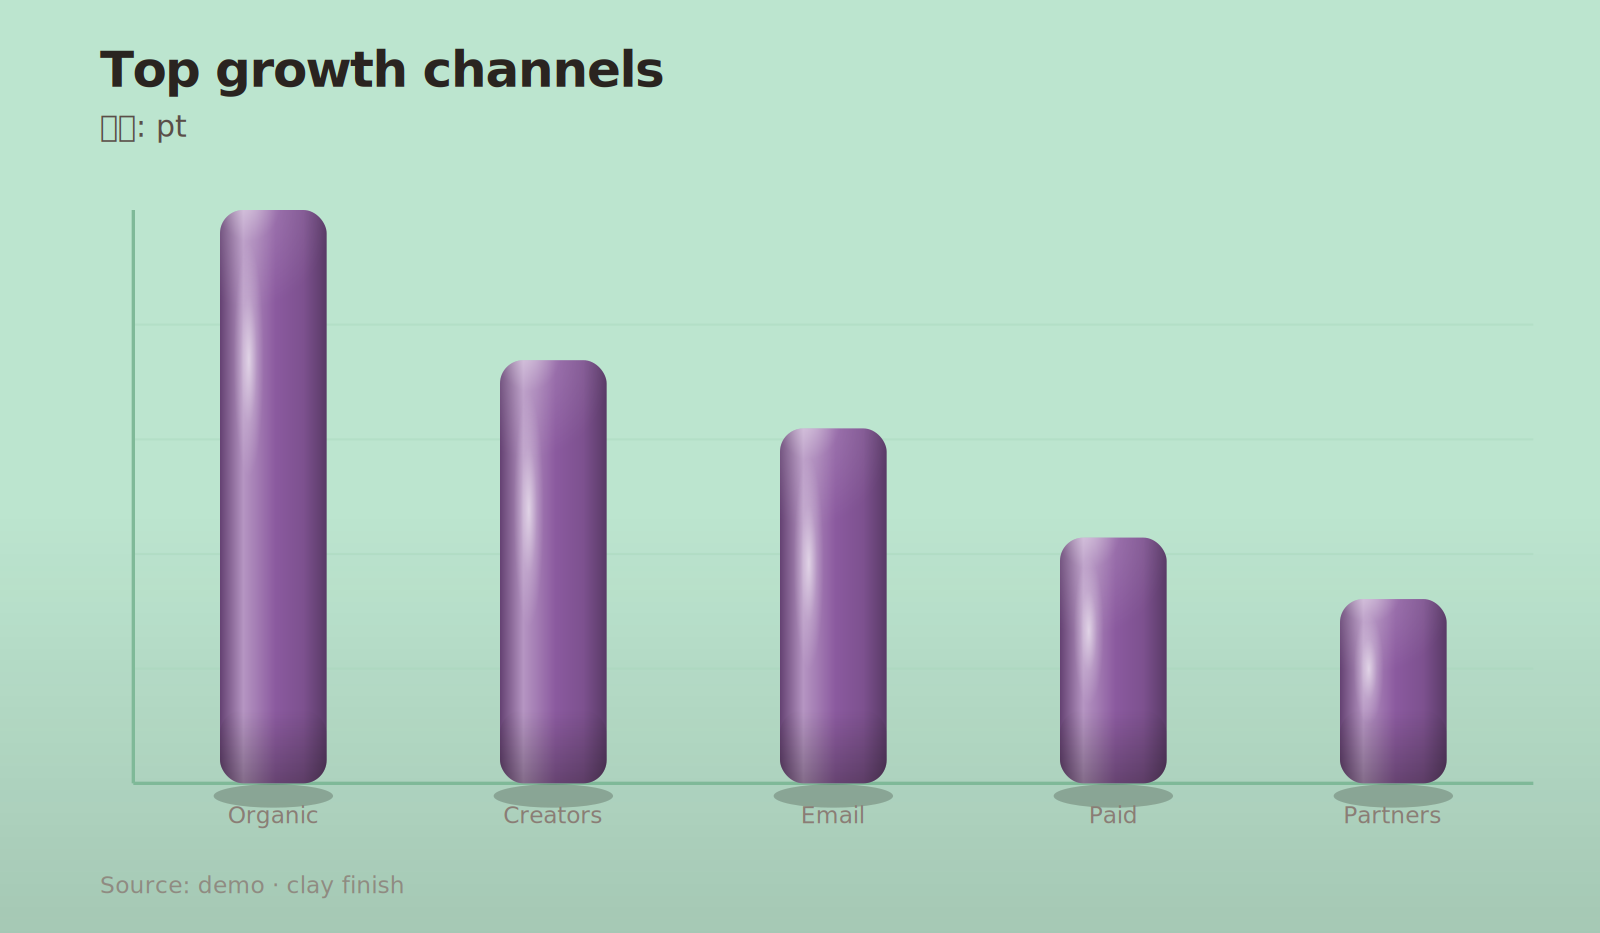
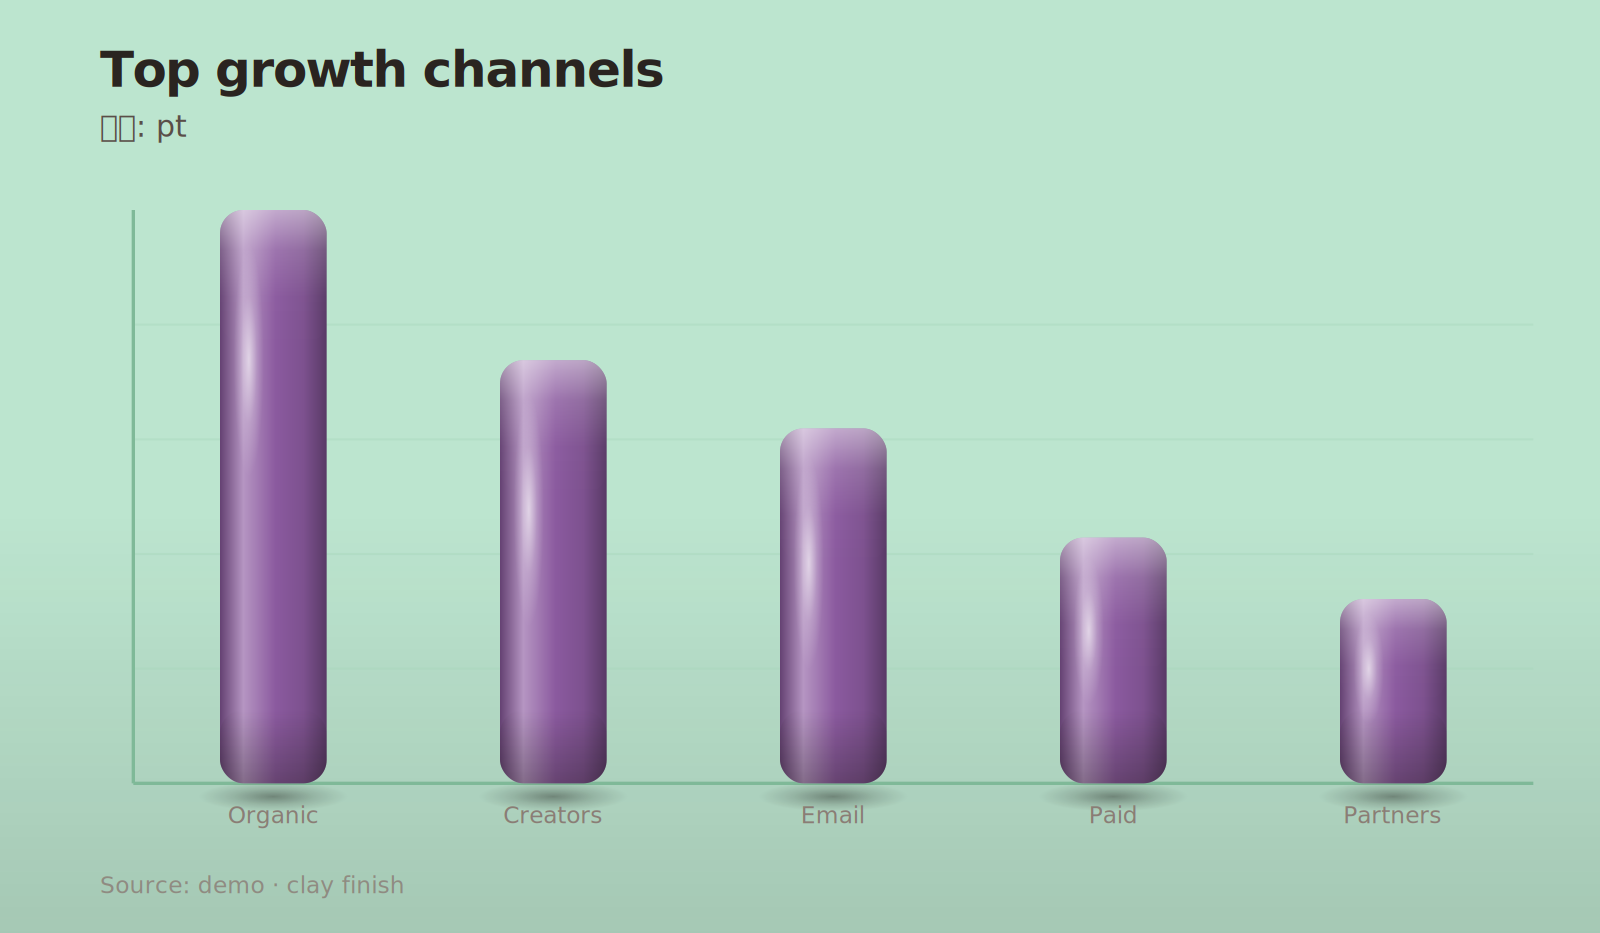
Feather clay shadows and switch top-sheen to vertical linear
Two refinements to address remaining edge artifacts:

1. Contact shadows now fill with a radial gradient (dark center
   fading to full transparency at the perimeter) instead of a solid
   color plus Gaussian blur. The blur filter left a faint rim that
   read as an edge; the radial fade dissolves smoothly. Applied to
   vertical bars, horizontal bars, and donut.

2. The top-sheen overlay on vertical bars was a radial anchored at
   the upper-left, which produced a visible highlight spot rather
   than a cylindrical top. Replaced with a vertical linearGradient
   (bright at y=0, tapering to transparent by y=65%) so the top of
   the bar catches light uniformly across its width, integrating
   with the horizontal cylinder gradient beneath for a symmetric
   "lit from above" read.

https://claude.ai/code/session_01ABERqQvQCk2K72zuEPEbhP

diff --git a/src/chartagent/renderers/svg_renderer.py b/src/chartagent/renderers/svg_renderer.py
@@ -97,11 +97,11 @@ def _render_bar_horizontal(chart_spec: dict[str, Any], dataset: dict[str, Any]) 
             bar_style = _series_fill_style(chart_spec, pattern_defs, slot=f"bar-horizontal-{index}", base_color=bar_fill)
         parts.append(f'<text x="{left - 16}" y="{y + 24}" class="label" text-anchor="end">{label}</text>')
         if _clay_mode_active(chart_spec):
-            shadow_rx = max(10.0, bar_width * 0.5)
+            shadow_rx = max(12.0, bar_width * 0.55)
             parts.append(
                 f'<ellipse cx="{(left + bar_width * 0.5):.2f}" cy="{(y + 34):.2f}"'
-                f' rx="{shadow_rx:.2f}" ry="3.2"'
-                f' fill="#0f0b08" fill-opacity="0.18" filter="url(#cg-clay-blur-tight)" />'
+                f' rx="{shadow_rx:.2f}" ry="4.2"'
+                f' fill="url(#cg-clay-ground-shadow)" pointer-events="none" />'
             )
             parts.append(
                 f'<rect x="{left}" y="{y + 6}" width="{bar_width:.2f}" height="24" rx="12"'
@@ -251,12 +251,12 @@ def _render_donut(chart_spec: dict[str, Any], dataset: dict[str, Any]) -> str:
         f'<circle cx="{cx}" cy="{cy}" r="{radius}" stroke="{_theme_token(chart_spec, "track", "#e2e8f0")}" stroke-width="{band_width}" fill="none" />'
     )
     if is_clay:
-        shadow_rx = outer_radius * 1.05
-        shadow_ry = max(10.0, outer_radius * 0.12)
-        shadow_cy = cy + outer_radius + shadow_ry * 0.55
+        shadow_rx = outer_radius * 1.15
+        shadow_ry = max(14.0, outer_radius * 0.16)
+        shadow_cy = cy + outer_radius + shadow_ry * 0.45
         parts.append(
             f'<ellipse cx="{cx:.2f}" cy="{shadow_cy:.2f}" rx="{shadow_rx:.2f}" ry="{shadow_ry:.2f}"'
-            f' fill="#0f0b08" fill-opacity="0.26" filter="url(#cg-clay-blur)" />'
+            f' fill="url(#cg-clay-ground-shadow)" pointer-events="none" />'
         )
         clay_start_angle = -90.0
         for index, record in enumerate(records):
@@ -1004,12 +1004,12 @@ def _render_bar_core(chart_spec: dict[str, Any], dataset: dict[str, Any], annota
             base_color = str(bar_style["paint"])
             clay_radius = float(_motif_token(chart_spec, "bar_radius", max(12.0, bar_width * 0.45)))
 
-            shadow_rx = bar_width * 0.56
-            shadow_ry = max(2.8, bar_width * 0.11)
-            shadow_cy = frame["plot_bottom"] + shadow_ry * 0.65 + 3
+            shadow_rx = bar_width * 0.70
+            shadow_ry = max(3.5, bar_width * 0.14)
+            shadow_cy = frame["plot_bottom"] + shadow_ry * 0.55 + 3
             parts.append(
                 f'<ellipse cx="{x_center:.2f}" cy="{shadow_cy:.2f}" rx="{shadow_rx:.2f}" ry="{shadow_ry:.2f}"'
-                f' fill="#0f0b08" fill-opacity="0.22" filter="url(#cg-clay-blur-tight)" />'
+                f' fill="url(#cg-clay-ground-shadow)" pointer-events="none" />'
             )
 
             parts.append(
@@ -1893,10 +1893,18 @@ def _clay_defs_block(chart_spec: dict[str, Any]) -> str:
         '</radialGradient>'
     )
     top_sheen_gradient = (
-        '<radialGradient id="cg-clay-top-sheen" cx="28%" cy="-5%" r="78%" fx="26%" fy="-10%">'
-        '<stop offset="0%" stop-color="#ffffff" stop-opacity="0.5" />'
-        '<stop offset="40%" stop-color="#ffffff" stop-opacity="0.12" />'
+        '<linearGradient id="cg-clay-top-sheen" x1="0%" y1="0%" x2="0%" y2="100%">'
+        '<stop offset="0%" stop-color="#ffffff" stop-opacity="0.48" />'
+        '<stop offset="30%" stop-color="#ffffff" stop-opacity="0.16" />'
+        '<stop offset="65%" stop-color="#ffffff" stop-opacity="0.02" />'
         '<stop offset="100%" stop-color="#ffffff" stop-opacity="0.0" />'
+        '</linearGradient>'
+    )
+    ground_shadow_gradient = (
+        '<radialGradient id="cg-clay-ground-shadow" cx="50%" cy="50%" r="50%">'
+        '<stop offset="0%" stop-color="#0f0b08" stop-opacity="0.38" />'
+        '<stop offset="55%" stop-color="#0f0b08" stop-opacity="0.14" />'
+        '<stop offset="100%" stop-color="#0f0b08" stop-opacity="0.0" />'
         '</radialGradient>'
     )
     ao_gradient = (
@@ -1920,6 +1928,7 @@ def _clay_defs_block(chart_spec: dict[str, Any]) -> str:
         + highlight_sheen
         + glint_gradient
         + top_sheen_gradient
+        + ground_shadow_gradient
         + ao_gradient
         + floor_gradient
         + "".join(gradients)
